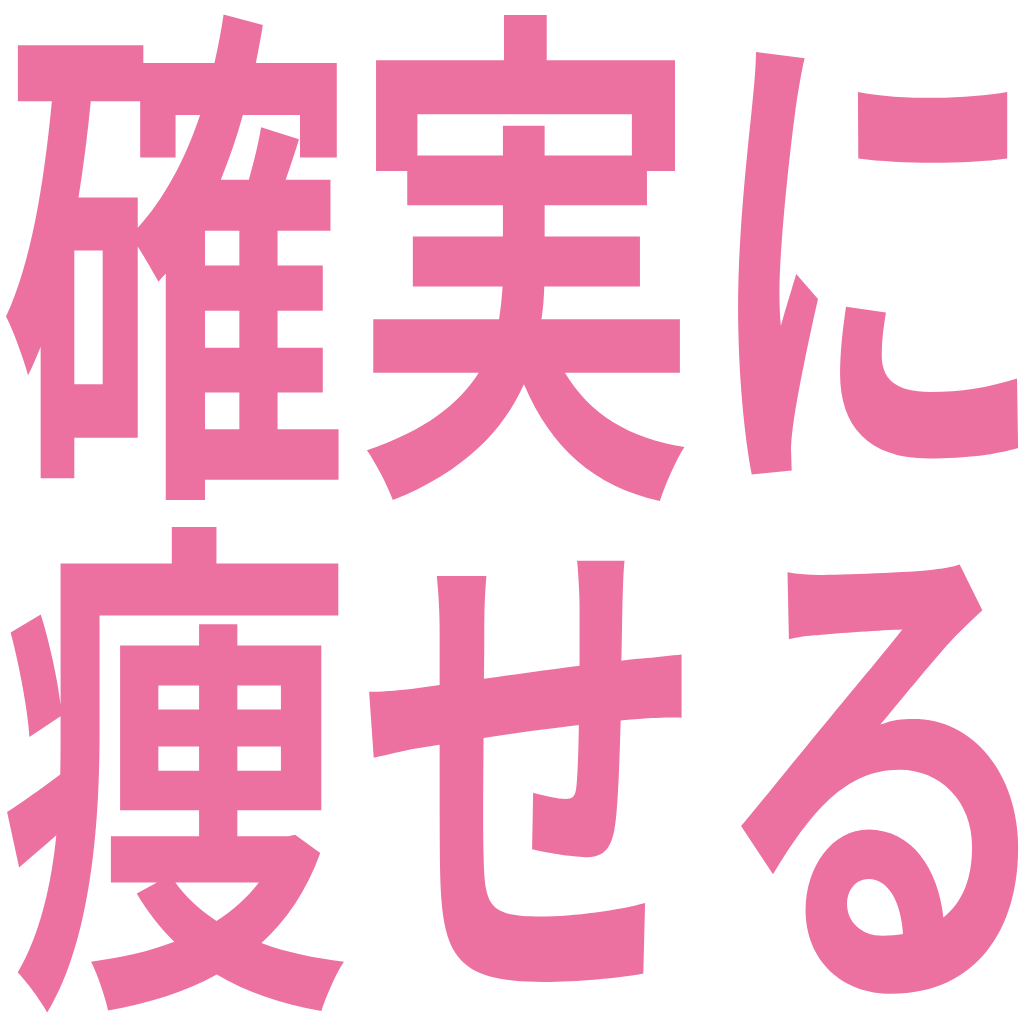
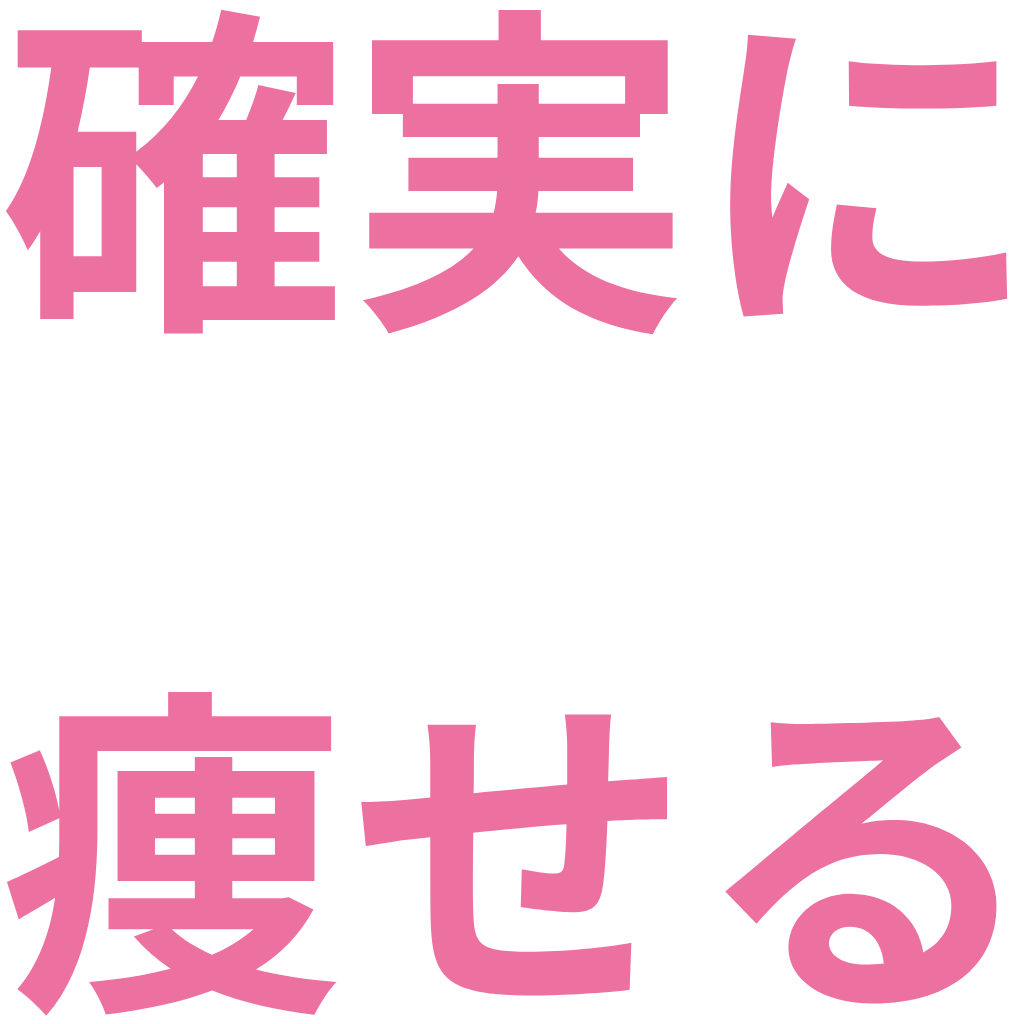
style(EgLine): cosmetic change

diff --git a/src/EgLine.cpp b/src/EgLine.cpp
@@ -25,16 +25,17 @@ EgLine::MeasureSpec EgLine::measure() {
     SkRect prevBounds = SkRect::MakeEmpty();
     SkScalar prevTextSize = SK_ScalarNaN;
 
-    for (SkScalar i = minTextSize;  i < maxTextSize; i += 0.5) {
-        paint.setTextSize(i);
-        paint.measureText(fText.c_str(), fText.length(), &bounds);
+    if (!fText.empty()) {
+        for (SkScalar i = minTextSize; i < maxTextSize; i += 0.5) {
 
-        if (bounds.height() > fLineHeight) break;
+            paint.setTextSize(i);
+            paint.measureText(fText.c_str(), fText.length(), &bounds);
 
-        prevTextSize = i;
-        prevBounds = bounds;
+            if (bounds.height() > fLineHeight) break;
 
-        if (fText.empty()) break;
+            prevTextSize = i;
+            prevBounds = bounds;
+        }
     }
 
     MeasureSpec measureSpec;

diff --git a/example/main.c b/example/main.c
@@ -4,7 +4,7 @@
 
 int main() {
     EgGenerateParams params;
-    params.fText = "確実に\n痩せる";
+    params.fText = "確実に\n\n痩せる";
     params.fWidth = 1024;
     params.fHeight = 1024;
     params.fColor = 0xFFEC71A1;
